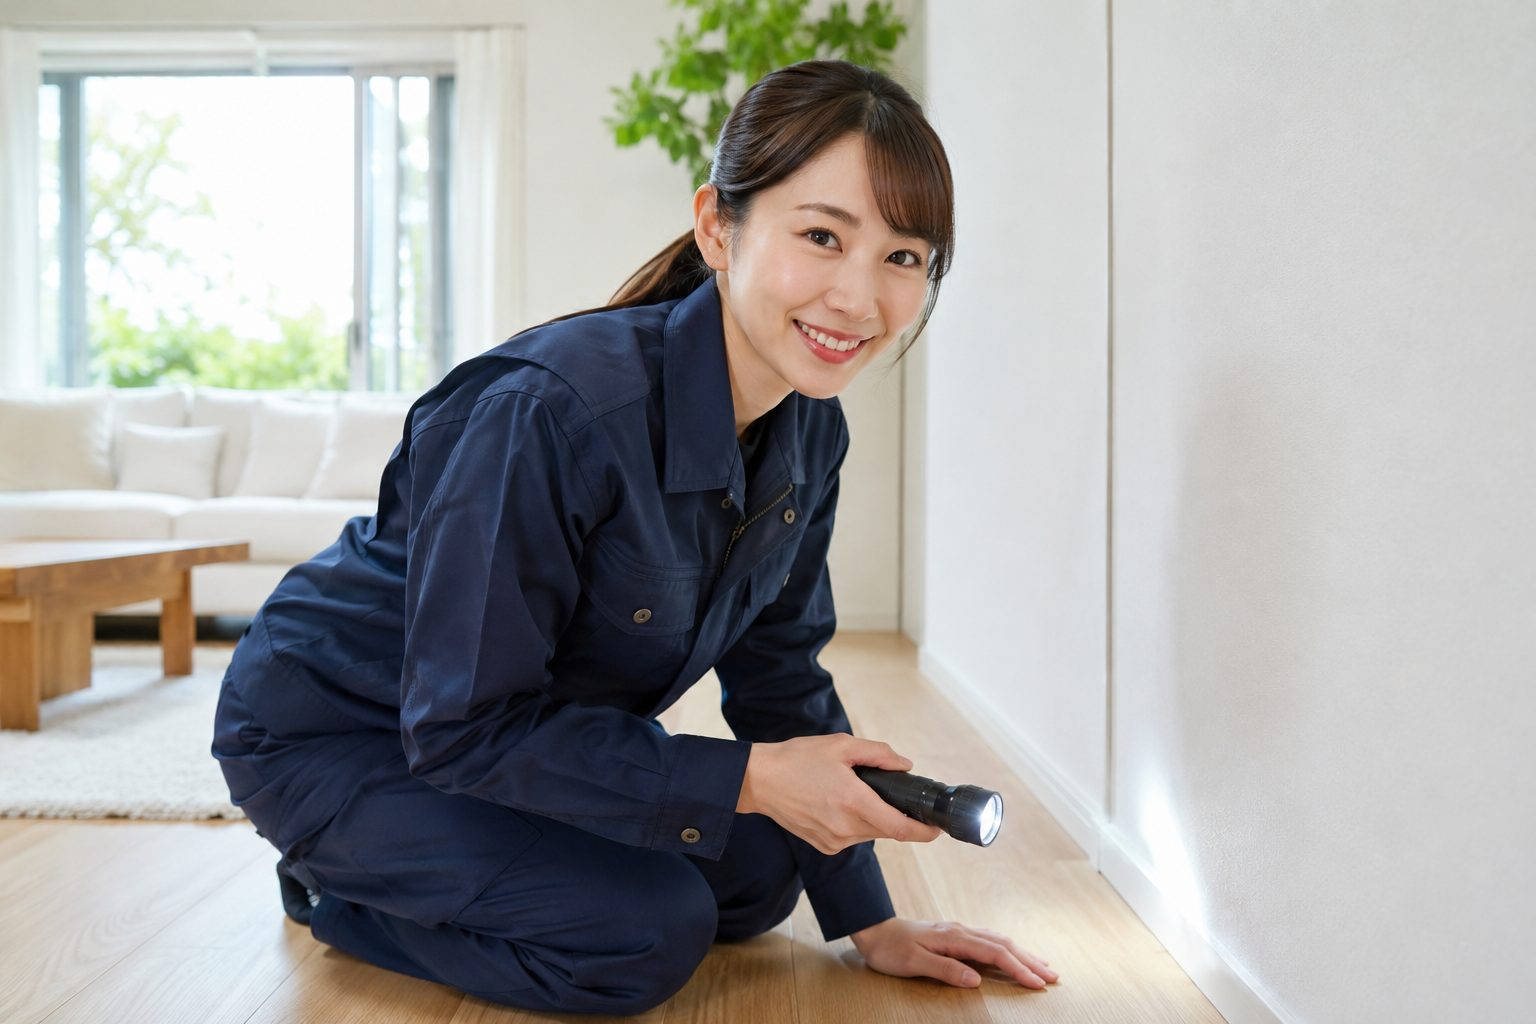
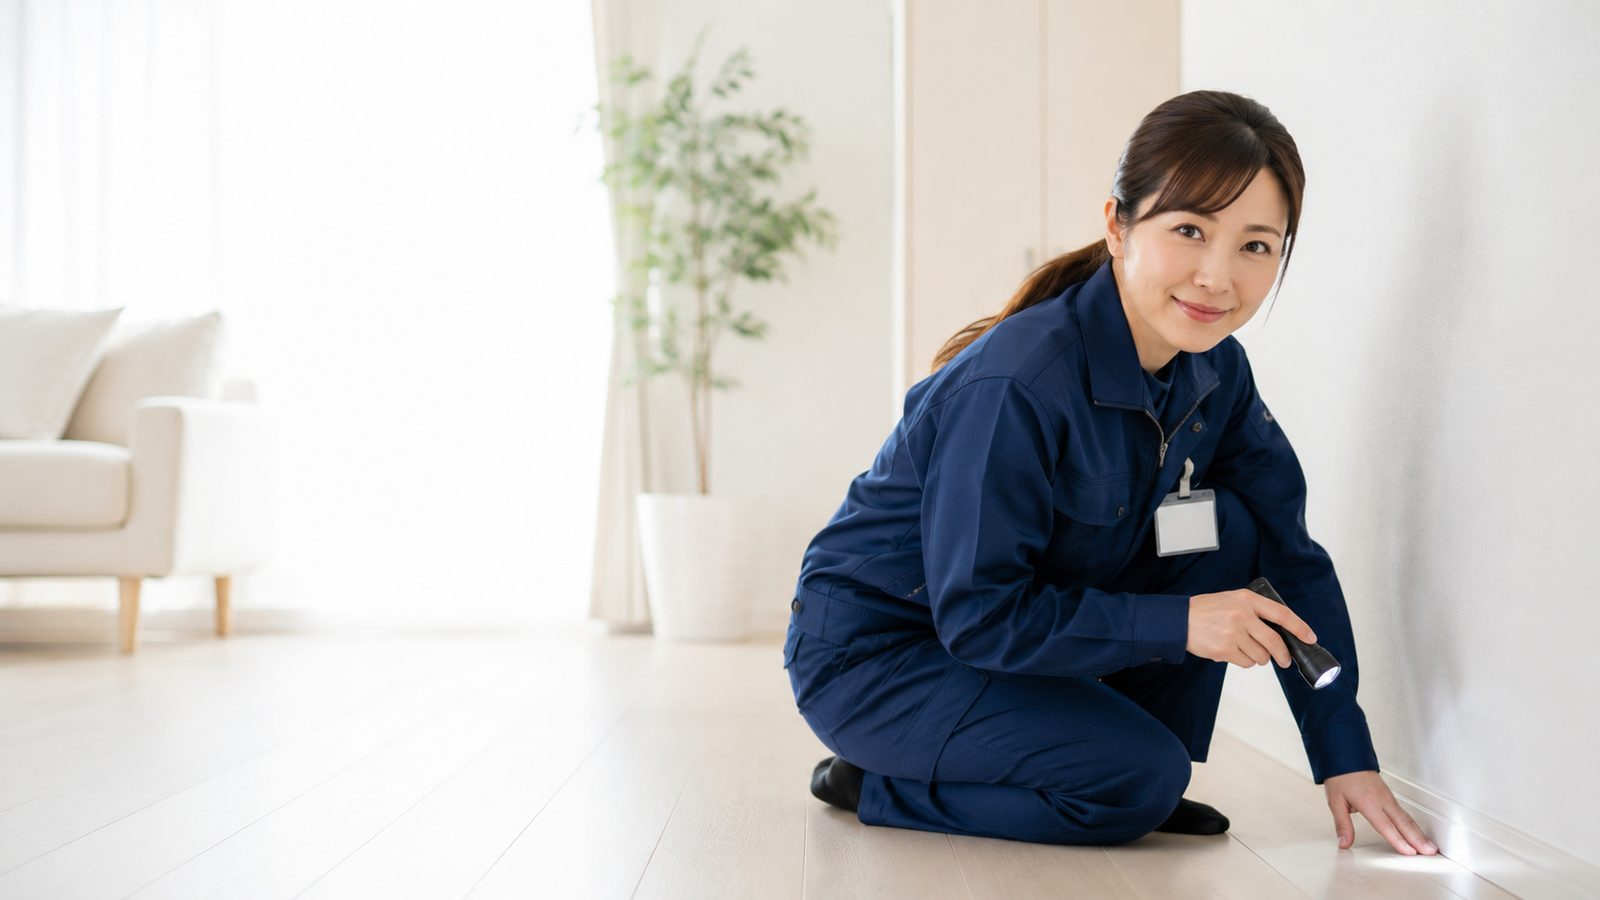
ヒーロースライド2・4を被写体右寄せの新画像に差し替え
PCで被写体が中央だと見出しと重なる問題を、人物が右・左に余白のある
新画像（害虫点検／リフォーム）に差し替えて解決（指示書の案B）。

- cover-2（害虫害獣・点検）/ cover-4（リフォーム）を新画像で更新、PNGは削除
- 16:9・86〜89KBに最適化
- object-position をPC=顔の縦位置 / スマホ=被写体の横位置(74〜78%)に再調整し
  PC・スマホ(360/390)双方で顔が見出しと干渉せず収まることを実機確認
- キャッシュバスト v=20260630c

Claude-Session: https://claude.ai/code/session_012yxaBK1u2s7cqoMQgiE46G

diff --git a/index.html b/index.html
@@ -15,7 +15,7 @@
   <meta property="og:image" content="https://playmark0227-svg.github.io/MR-creanLAB/images/cover.png">
   <meta name="twitter:card" content="summary_large_image">
   <link rel="preload" as="image" href="images/cover-bg.jpg?v=1" fetchpriority="high">
-  <link rel="stylesheet" href="css/style.css?v=20260630b">
+  <link rel="stylesheet" href="css/style.css?v=20260630c">
   <script type="application/ld+json">
   {"@context":"https://schema.org","@type":"LocalBusiness","name":"株式会社MR.クリーンラボ","image":"https://playmark0227-svg.github.io/MR-creanLAB/images/cover.png","url":"https://playmark0227-svg.github.io/MR-creanLAB/","telephone":"011-252-7865","address":{"@type":"PostalAddress","postalCode":"062-0035","addressRegion":"北海道","addressLocality":"札幌市豊平区","streetAddress":"西岡五条13丁目1番20号","addressCountry":"JP"},"areaServed":["札幌市","函館市","旭川市","帯広市","釧路市"],"openingHours":"Mo-Sa 09:00-18:00","priceRange":"見積無料"}
   </script>
@@ -130,7 +130,7 @@
         <a class="svc-o reveal" href="pest-control.html">
           <div class="svc-o__media">
             <span class="svc-o__num">01</span>
-            <img src="images/hero-pest.jpg?v=20260630b" alt="害虫害獣 駆除・防除" loading="lazy">
+            <img src="images/hero-pest.jpg?v=20260630c" alt="害虫害獣 駆除・防除" loading="lazy">
             <div class="svc-o__head"><div class="svc-o__en">PEST CONTROL</div><div class="svc-o__title">害虫害獣 駆除・防除</div></div>
           </div>
           <div class="svc-o__body">
@@ -147,7 +147,7 @@
         <a class="svc-o reveal d1" href="drainage.html">
           <div class="svc-o__media">
             <span class="svc-o__num">02</span>
-            <img src="images/hero-drain.jpg?v=20260630b" alt="排水管洗浄・衛生管理" loading="lazy">
+            <img src="images/hero-drain.jpg?v=20260630c" alt="排水管洗浄・衛生管理" loading="lazy">
             <div class="svc-o__head"><div class="svc-o__en">DRAIN &amp; HYGIENE</div><div class="svc-o__title">排水管洗浄・衛生管理</div></div>
           </div>
           <div class="svc-o__body">
@@ -164,7 +164,7 @@
         <a class="svc-o reveal d2" href="reform.html">
           <div class="svc-o__media">
             <span class="svc-o__num">03</span>
-            <img src="images/hero-reform.jpg?v=20260630b" alt="リフォーム・ハウスクリーニング" loading="lazy">
+            <img src="images/hero-reform.jpg?v=20260630c" alt="リフォーム・ハウスクリーニング" loading="lazy">
             <div class="svc-o__head"><div class="svc-o__en">REFORM &amp; CLEANING</div><div class="svc-o__title">リフォーム・ハウスクリーニング</div></div>
           </div>
           <div class="svc-o__body">
@@ -259,7 +259,7 @@
   </section>
 
   <!-- ===== 中間CTA（写真） ===== -->
-  <section class="cta-photo" style="--cta-img:url('images/hero-reform.jpg?v=20260630b')">
+  <section class="cta-photo" style="--cta-img:url('images/hero-reform.jpg?v=20260630c')">
     <h2>まずは無料で、現地調査・お見積りから。</h2>
     <p>ご相談・お見積り・現地調査はすべて無料。最短即日で、専任のプロが診断にお伺いします。</p>
     <div class="actions">
@@ -388,6 +388,6 @@
     <a class="req" href="contact.html">無料で相談する</a>
   </div>
   <a class="pagetop" href="#" aria-label="ページ上部へ戻る"><svg viewBox="0 0 24 24" fill="none" stroke="currentColor" stroke-width="2.2" stroke-linecap="round" stroke-linejoin="round"><path d="M12 19V5M6 11l6-6 6 6"/></svg></a>
-  <script src="js/main.js?v=20260630b" defer></script>
+  <script src="js/main.js?v=20260630c" defer></script>
 </body>
 </html>

diff --git a/drainage.html b/drainage.html
@@ -5,7 +5,7 @@
   <meta name="viewport" content="width=device-width, initial-scale=1.0">
   <title>排水管洗浄・グリーストラップ清掃｜株式会社MR.クリーンラボ</title>
   <meta name="description" content="札幌のMR.クリーンラボ。排水管の高圧洗浄、飲食店・施設のグリーストラップ清掃。定期メンテナンスにも対応します。">
-  <link rel="stylesheet" href="css/style.css?v=20260630b">
+  <link rel="stylesheet" href="css/style.css?v=20260630c">
 </head>
 <body>
 
@@ -46,7 +46,7 @@
   </header>
 
   <!-- ===== ヒーロー ===== -->
-  <section class="hero hero--photo" style="--hero-img:url('images/hero-drain.jpg?v=20260630b'); --hero-pos:center;">
+  <section class="hero hero--photo" style="--hero-img:url('images/hero-drain.jpg?v=20260630c'); --hero-pos:center;">
     <div class="container">
       <div class="hero__text">
         <span class="en-tag">DRAIN &amp; HYGIENE</span>
@@ -172,7 +172,7 @@
     <a class="req" href="contact.html">無料で相談する</a>
   </div>
   <a class="pagetop" href="#" aria-label="ページ上部へ戻る"><svg viewBox="0 0 24 24" fill="none" stroke="currentColor" stroke-width="2.2" stroke-linecap="round" stroke-linejoin="round"><path d="M12 19V5M6 11l6-6 6 6"/></svg></a>
-  <script src="js/main.js?v=20260630b" defer></script>
+  <script src="js/main.js?v=20260630c" defer></script>
 
 </body>
 </html>

diff --git a/reform.html b/reform.html
@@ -5,7 +5,7 @@
   <meta name="viewport" content="width=device-width, initial-scale=1.0">
   <title>リフォーム・ハウスクリーニング｜株式会社MR.クリーンラボ</title>
   <meta name="description" content="札幌のMR.クリーンラボ。クロス・クッションフロアの張り替えからハウスクリーニングまで、住まいのお困りごとをワンストップで対応します。">
-  <link rel="stylesheet" href="css/style.css?v=20260630b">
+  <link rel="stylesheet" href="css/style.css?v=20260630c">
 </head>
 <body>
 
@@ -46,7 +46,7 @@
   </header>
 
   <!-- ===== ヒーロー ===== -->
-  <section class="hero hero--photo" style="--hero-img:url('images/hero-reform.jpg?v=20260630b')">
+  <section class="hero hero--photo" style="--hero-img:url('images/hero-reform.jpg?v=20260630c')">
     <div class="container">
       <div class="hero__text">
         <span class="en-tag">REFORM &amp; CLEANING</span>
@@ -165,7 +165,7 @@
     <a class="req" href="contact.html">無料で相談する</a>
   </div>
   <a class="pagetop" href="#" aria-label="ページ上部へ戻る"><svg viewBox="0 0 24 24" fill="none" stroke="currentColor" stroke-width="2.2" stroke-linecap="round" stroke-linejoin="round"><path d="M12 19V5M6 11l6-6 6 6"/></svg></a>
-  <script src="js/main.js?v=20260630b" defer></script>
+  <script src="js/main.js?v=20260630c" defer></script>
 
 </body>
 </html>

diff --git a/pest-control.html b/pest-control.html
@@ -5,7 +5,7 @@
   <meta name="viewport" content="width=device-width, initial-scale=1.0">
   <title>害虫害獣 駆除・防除｜株式会社MR.クリーンラボ</title>
   <meta name="description" content="札幌のMR.クリーンラボ。ネズミ・ハチ・ゴキブリなど害虫害獣の駆除と再発を防ぐ防除。今すぐの解決も将来の安心もお任せください。">
-  <link rel="stylesheet" href="css/style.css?v=20260630b">
+  <link rel="stylesheet" href="css/style.css?v=20260630c">
 </head>
 <body>
 
@@ -46,7 +46,7 @@
   </header>
 
   <!-- ===== ヒーロー ===== -->
-  <section class="hero hero--photo" style="--hero-img:url('images/hero-pest.jpg?v=20260630b')">
+  <section class="hero hero--photo" style="--hero-img:url('images/hero-pest.jpg?v=20260630c')">
     <div class="container">
       <div class="hero__text">
         <span class="en-tag">PEST CONTROL</span>
@@ -173,7 +173,7 @@
     <a class="req" href="contact.html">無料で相談する</a>
   </div>
   <a class="pagetop" href="#" aria-label="ページ上部へ戻る"><svg viewBox="0 0 24 24" fill="none" stroke="currentColor" stroke-width="2.2" stroke-linecap="round" stroke-linejoin="round"><path d="M12 19V5M6 11l6-6 6 6"/></svg></a>
-  <script src="js/main.js?v=20260630b" defer></script>
+  <script src="js/main.js?v=20260630c" defer></script>
 
 </body>
 </html>

diff --git a/js/main.js b/js/main.js
@@ -198,12 +198,12 @@ var MRCL_ANIM = {
   if (!baseImg) return;
   if (frame.classList.contains("has-slideshow")) return;
 
-  var VER = "?v=20260630b";
+  var VER = "?v=20260630c";
   /* slide2〜4（顔入り実画像）。pos = object-position（x=スマホ横位置 / y=PC縦位置） */
   var SLIDES = [
-    { src: "images/cover-2.jpg" + VER, alt: "住まいを点検する害虫害獣防除のスタッフ", pos: "52% 30%" },
+    { src: "images/cover-2.jpg" + VER, alt: "住まいを点検する害虫害獣防除のスタッフ", pos: "74% 28%" },
     { src: "images/cover-3.jpg" + VER, alt: "キッチンの排水・水まわりを作業するスタッフ", pos: "64% 32%" },
-    { src: "images/cover-4.jpg" + VER, alt: "リフォーム・ハウスクリーニングを行うスタッフ", pos: "56% 34%" }
+    { src: "images/cover-4.jpg" + VER, alt: "リフォーム・ハウスクリーニングを行うスタッフ", pos: "78% 28%" }
   ];
 
   var reduce = window.matchMedia && window.matchMedia("(prefers-reduced-motion: reduce)").matches;

diff --git a/contact.html b/contact.html
@@ -5,7 +5,7 @@
   <meta name="viewport" content="width=device-width, initial-scale=1.0">
   <title>お問い合わせ｜株式会社MR.クリーンラボ</title>
   <meta name="description" content="株式会社MR.クリーンラボへのお問い合わせ。害虫害獣駆除・排水管洗浄・リフォーム・ハウスクリーニングのご相談・お見積りは無料です。">
-  <link rel="stylesheet" href="css/style.css?v=20260630b">
+  <link rel="stylesheet" href="css/style.css?v=20260630c">
 </head>
 <body>
 
@@ -130,7 +130,7 @@
     <a class="req" href="contact.html">無料で相談する</a>
   </div>
   <a class="pagetop" href="#" aria-label="ページ上部へ戻る"><svg viewBox="0 0 24 24" fill="none" stroke="currentColor" stroke-width="2.2" stroke-linecap="round" stroke-linejoin="round"><path d="M12 19V5M6 11l6-6 6 6"/></svg></a>
-  <script src="js/main.js?v=20260630b" defer></script>
+  <script src="js/main.js?v=20260630c" defer></script>
 
 </body>
 </html>

diff --git a/company.html b/company.html
@@ -5,7 +5,7 @@
   <meta name="viewport" content="width=device-width, initial-scale=1.0">
   <title>会社概要｜株式会社MR.クリーンラボ</title>
   <meta name="description" content="株式会社MR.クリーンラボの会社概要。代表メッセージ、商号・所在地・事業概要などをご案内します。">
-  <link rel="stylesheet" href="css/style.css?v=20260630b">
+  <link rel="stylesheet" href="css/style.css?v=20260630c">
 </head>
 <body>
 
@@ -136,7 +136,7 @@
     <a class="req" href="contact.html">無料で相談する</a>
   </div>
   <a class="pagetop" href="#" aria-label="ページ上部へ戻る"><svg viewBox="0 0 24 24" fill="none" stroke="currentColor" stroke-width="2.2" stroke-linecap="round" stroke-linejoin="round"><path d="M12 19V5M6 11l6-6 6 6"/></svg></a>
-  <script src="js/main.js?v=20260630b" defer></script>
+  <script src="js/main.js?v=20260630c" defer></script>
 
 </body>
 </html>

diff --git a/news.html b/news.html
@@ -5,7 +5,7 @@
   <meta name="viewport" content="width=device-width, initial-scale=1.0">
   <title>お知らせ｜株式会社MR.クリーンラボ</title>
   <meta name="description" content="株式会社MR.クリーンラボからのお知らせ・最新情報・トピックス。">
-  <link rel="stylesheet" href="css/style.css?v=20260630b">
+  <link rel="stylesheet" href="css/style.css?v=20260630c">
 </head>
 <body>
 
@@ -98,7 +98,7 @@
     <a class="req" href="contact.html">無料で相談する</a>
   </div>
   <a class="pagetop" href="#" aria-label="ページ上部へ戻る"><svg viewBox="0 0 24 24" fill="none" stroke="currentColor" stroke-width="2.2" stroke-linecap="round" stroke-linejoin="round"><path d="M12 19V5M6 11l6-6 6 6"/></svg></a>
-  <script src="js/main.js?v=20260630b" defer></script>
+  <script src="js/main.js?v=20260630c" defer></script>
 
 </body>
 </html>
